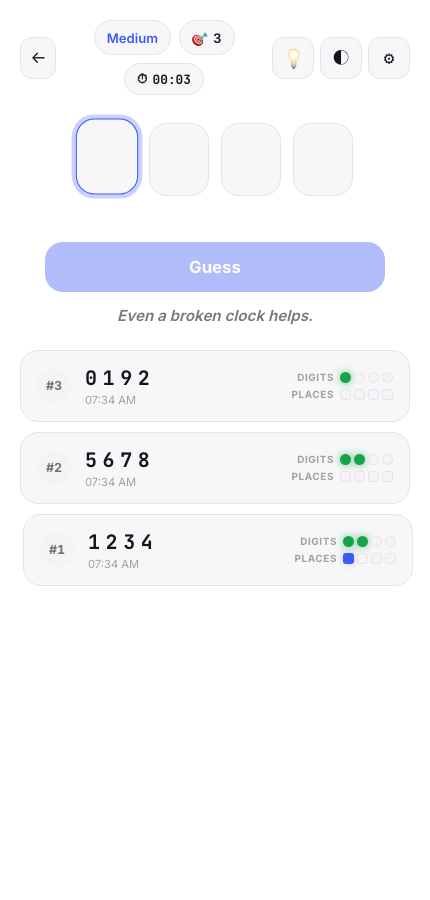
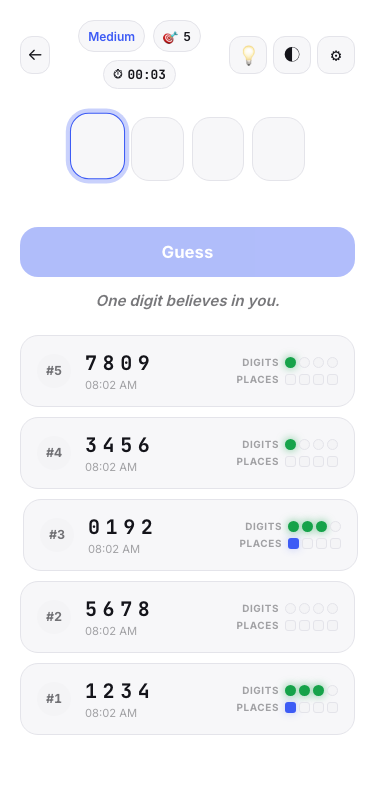
Add live/source links, Vercel Analytics, and simplify the cursor
- Deploy Fragments and Number Hunt live (Vercel) and push both to
  public GitHub repos, matching the source-link pattern Shadow Protocol
  and Shiba already had; update their status to Live
- Fix Number Hunt's card: it was rendering through the desktop-shaped
  WindowFrame, which doesn't fit a mobile-first app. Added a frame
  variant to FeaturedExhibit and render it through PhoneFrame instead,
  with a properly centered, uncropped screenshot
- Split "Tech Consultant · Deloitte · Capgemini" into two resume lines
  with their real titles
- Remove the custom cursor entirely (reverting to native) and its now
  -dead has-cursor/data-cursor plumbing
- Add Vercel Web Analytics (@user/analytics)

diff --git a/src/data/content.ts b/src/data/content.ts
@@ -266,6 +266,8 @@ export type FeaturedExhibit = {
   tech: string[];
   paragraphs: string[];
   images: { src: string; alt: string }[];
+  /** "window" (default) for desktop apps, "phone" for mobile-first ones. */
+  frame?: "window" | "phone";
   liveUrl?: string;
   githubUrl?: string;
 };
@@ -276,7 +278,7 @@ export const featuredExhibits: FeaturedExhibit[] = [
     name: "Fragments",
     tagline: "A psychological puzzle experience told through reconstructed memories.",
     category: "Interactive Experience",
-    status: "Prototype",
+    status: "Live",
     why: "Built to see if a browser tab could hold a story, not just a tool.",
     tech: ["Vanilla JS", "Web Audio API", "CSS"],
     paragraphs: [
@@ -287,6 +289,8 @@ export const featuredExhibits: FeaturedExhibit[] = [
       { src: "/projects/fragments/1-title.png", alt: "Fragments title screen" },
       { src: "/projects/fragments/2-room.png", alt: "Fragments: a first-person memory room with an inventory HUD" },
     ],
+    liveUrl: "https://sai-escape.vercel.app",
+    githubUrl: "https://github.com/saivilas98/fragments-game",
   },
   {
     id: "shadow-protocol",
@@ -311,7 +315,7 @@ export const featuredExhibits: FeaturedExhibit[] = [
     name: "Number Hunt",
     tagline: "A minimalist deduction puzzle: guess the secret number, read the pips, narrow it down.",
     category: "Game",
-    status: "Prototype",
+    status: "Live",
     why: "Built to see how far a Mastermind-style puzzle could go with zero frameworks.",
     tech: ["Vanilla JS", "Web Audio API", "CSS custom properties"],
     paragraphs: [
@@ -322,6 +326,9 @@ export const featuredExhibits: FeaturedExhibit[] = [
       { src: "/projects/number-hunt/1-menu.png", alt: "Number Hunt difficulty select screen" },
       { src: "/projects/number-hunt/2-gameplay.png", alt: "Number Hunt gameplay with guess history and feedback pips" },
     ],
+    frame: "phone",
+    liveUrl: "https://number-hunt-opal.vercel.app",
+    githubUrl: "https://github.com/saivilas98/number-hunt",
   },
   {
     id: "shiba",
@@ -453,7 +460,8 @@ export const resume = {
   experience: [
     "PM Intern · Ola Electric",
     "Data & Analytics Manager · Accordion Partners",
-    "Tech Consultant · Deloitte · Capgemini",
+    "Consultant · Deloitte",
+    "Associate Consultant · Capgemini",
   ],
   education: ["IIM Calcutta · MBA", "IIT Indore · B.Tech, Mechanical Engineering"],
 };

diff --git a/src/index.css b/src/index.css
@@ -99,15 +99,6 @@
     user-select: none;
     -webkit-user-drag: none;
   }
-
-  /* The custom cursor replaces the native one only on precise pointers. */
-  @media (pointer: fine) {
-    .has-cursor,
-    .has-cursor a,
-    .has-cursor button {
-      cursor: none;
-    }
-  }
 }
 
 @layer utilities {

diff --git a/src/components/sections/ProjectsCinema.tsx b/src/components/sections/ProjectsCinema.tsx
@@ -162,7 +162,13 @@ function FeatureExhibit({ exhibit, index }: { exhibit: FeaturedExhibit; index: n
 function CompactExhibit({ exhibit, index }: { exhibit: FeaturedExhibit; index: number }) {
   return (
     <Reveal delay={index * 0.05} className="lit card-lift flex h-full flex-col rounded-2xl border border-line bg-surface p-6 sm:p-7">
-      <WindowFrame src={exhibit.images[0].src} alt={exhibit.images[0].alt} />
+      {exhibit.frame === "phone" ? (
+        <div className="flex justify-center py-2">
+          <PhoneFrame src={exhibit.images[0].src} alt={exhibit.images[0].alt} />
+        </div>
+      ) : (
+        <WindowFrame src={exhibit.images[0].src} alt={exhibit.images[0].alt} />
+      )}
 
       <div className="mt-6 flex flex-wrap items-center gap-2">
         <CategoryPill category={exhibit.category} />

diff --git a/src/App.tsx b/src/App.tsx
@@ -11,7 +11,6 @@ import { ProductThinking } from "./components/sections/ProductThinking";
 import { ProjectsCinema } from "./components/sections/ProjectsCinema";
 import { Resume } from "./components/sections/Resume";
 import { TopBar } from "./components/sections/TopBar";
-import { Cursor } from "./components/fx/Cursor";
 import { LightField } from "./components/fx/LightField";
 import { Preloader } from "./components/fx/Preloader";
 import { ScrollProgress } from "./components/fx/ScrollProgress";
@@ -32,7 +31,6 @@ function App() {
   return (
     <MotionConfig reducedMotion="user">
       <Preloader onReveal={() => setStarted(true)} />
-      <Cursor />
       <ScrollProgress />
       <LightField />
 

diff --git a/src/main.tsx b/src/main.tsx
@@ -1,10 +1,12 @@
 import { StrictMode } from 'react'
 import { createRoot } from 'react-dom/client'
+import { Analytics } from '@vercel/analytics/react'
 import './index.css'
 import App from './App.tsx'
 
 createRoot(document.getElementById('root')!).render(
   <StrictMode>
     <App />
+    <Analytics />
   </StrictMode>,
 )

diff --git a/src/components/ui/EducationChip.tsx b/src/components/ui/EducationChip.tsx
@@ -24,7 +24,6 @@ export function EducationChip({ institution, detail }: EducationChipProps) {
         whileHover={{ y: -2 }}
         transition={{ type: "spring", stiffness: 320, damping: 20 }}
         className="inline-flex cursor-help items-center gap-2 rounded-full border border-line bg-surface px-4 py-2 font-mono text-xs uppercase tracking-[0.15em] text-muted transition-colors duration-300 hover:border-accent/50 hover:text-ink"
-        data-cursor
       >
         <GraduationCap size={13} className="text-accent" />
         {institution}